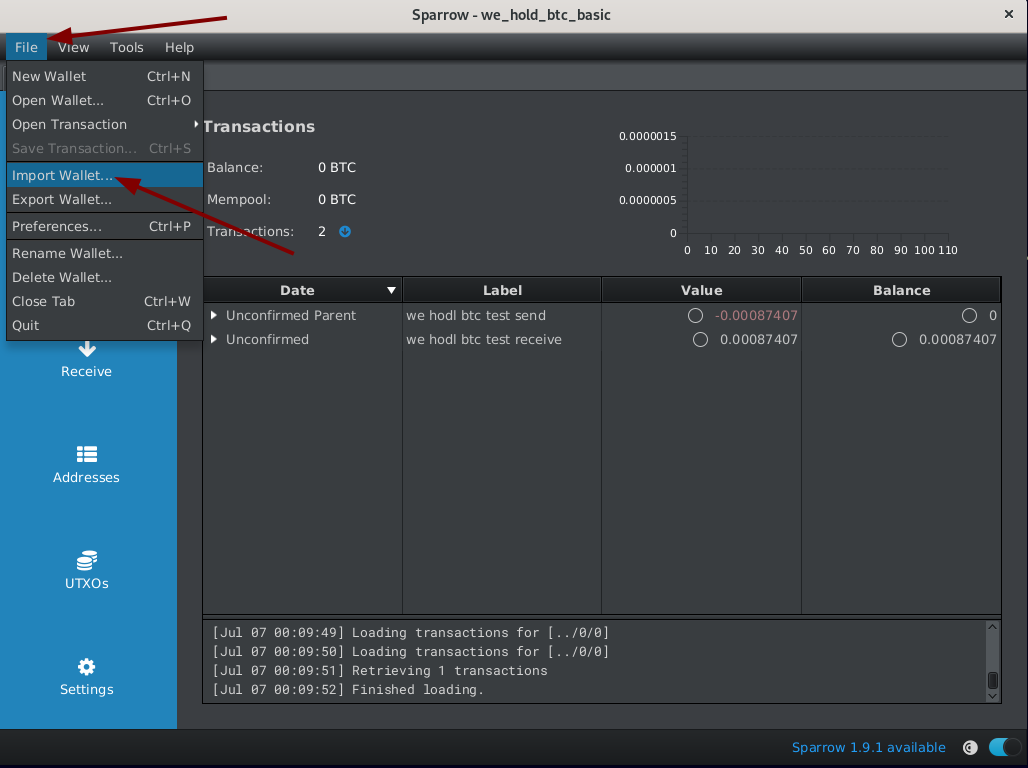
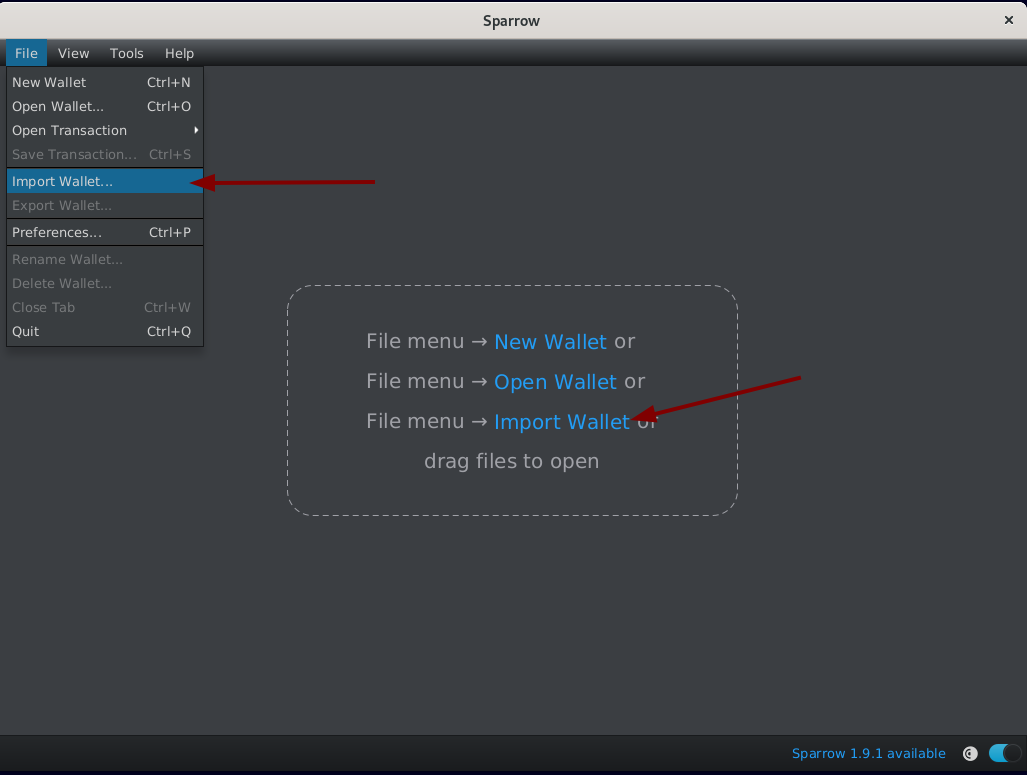
update sparrow wallet recovery faq

diff --git a/src/faqs/sparrow/sparrow_faq7.md b/src/faqs/sparrow/sparrow_faq7.md
@@ -3,12 +3,12 @@
 <h2 class="text-2xl pb-4 text-[#f7931a] font-semibold">Recovering Your Wallet</h2>
 
 Wallet recovery can be done using any software that supports **<a class="text-[#8cb4ff] underline-offset-auto font-semibold" href="https://en.bitcoin.it/wiki/BIP_0039" rel="noopener noreferrer" target="blank">BIP39<a>** 
-mnemonic seed. If you followed this guide, including Sparrow's quick start guide, then you've 
-got a BIP39 mnemonic seed. Recovering using Sparrow wallet is very similar to wallet creation.
+mnemonic seeds. If you followed this guide, including Sparrow's quick start guide, than you've 
+got a BIP39 mnemonic seed. 
 
 <br>
 
-**1\.** From the top menu click on **File** then click on **New Wallet**. Enter a name for your wallet.
+**1\.** From the top menu or middle of the page click on **File** then click on **Import Wallet**.
 
 <br>
 
@@ -18,54 +18,43 @@ got a BIP39 mnemonic seed. Recovering using Sparrow wallet is very similar to wa
 
 <br>
 
-**2\.** You'll be taken to the **Settings** tab to setup a new wallet. Leave everything as is and click on **New or Imported Software Wallet**.
+**2\.** Assuming you're recovering using your 12 word mnemonic seed, select the first dropdown and click on **Use 12 Words**. 
 
 <br>
 
-<a href="./../../../sparrow_basic_wallet.png" target="_blank">
-    <img id="sparrow basic wallet" src="./../../../sparrow_basic_wallet.png" alt="sparrow basic wallet" width="800"/> 
+<a href="./../../../sparrow_wallet_recovery_dropdown.png" target="_blank">
+    <img id="sparrow wallet recovery dropdown" src="./../../../sparrow_wallet_recovery_dropdown.png" alt="sparrow wallet recovery dropdown" width="800"/> 
 </a>
 
 <br>
 
-**3\.** A new window will appear, you'll select the first option **Mnemonic Words**, click on the down arrow and select **Use 12 words**.
+**3\.** Enter the 12 words you copied when originally setting up your wallet. They must be in the correct order. 
+        Enter a **passphrase** if you used one when originally creating this wallet. Click on **Discover Wallet**. Discovery may take a minute.
 
 <br>
 
-<a href="./../../../sparrow_basic_wallet.png" target="_blank">
-    <img id="sparrow basic wallet" src="./../../../sparrow_basic_wallet.png" alt="sparrow basic wallet" width="800"/> 
+<a href="./../../../sparrow_wallet_recovery_seed.png" target="_blank">
+    <img id="sparrow wallet recovery seed" src="./../../../sparrow_wallet_recovery_seed.png" alt="sparrow wallet recovery seed" width="800"/> 
 </a>
 
 <br>
 
-**4\.** Enter the 12 words you copied when originally setting up your wallet. They must be in the correct order. 
-        Enter a **passphrase** if you used one when originally creating this wallet. 
+**4\.** When asked, add a name to this wallet. You'll be asked to add a password, this is optional (It has no relation to your passphrase).
 
 <br>
 
-<a href="./../../../sparrow_basic_wallet.png" target="_blank">
-    <img id="sparrow basic wallet" src="./../../../sparrow_basic_wallet.png" alt="sparrow basic wallet" width="800"/> 
+<a href="./../../../sparrow_wallet_recovery_name.png" target="_blank">
+    <img id="sparrow wallet recovery name" src="./../../../sparrow_wallet_recovery_name.png" alt="sparrow wallet recovery name" width="800"/> 
 </a>
 
 <br>
 
-**5\.** If you followed this guide you would have stored the **passphrase** apart from your 12 words. 
-        If the seed is valid, **Valid Checksum** will turn green. Click on **Create Keystore** and then click on **Import Keystore**.
-
+**5\.** If the details you entered are correct, your balance (if you had one), along with all transactions will start appearing. 
+ 
 <br>
 
-<a href="./../../../sparrow_basic_wallet.png" target="_blank">
-    <img id="sparrow basic wallet" src="./../../../sparrow_basic_wallet.png" alt="sparrow basic wallet" width="800"/> 
-</a>
-
-<br>
-
-**6\.** Finally, click on **Apply** in the bottom right corner. If you correctly entered your seed words, your transactions will start appearing below the **Transactions** tab.
-
-<br>
-
-<a href="./../../../sparrow_basic_wallet.png" target="_blank">
-    <img id="sparrow basic wallet" src="./../../../sparrow_basic_wallet.png" alt="sparrow basic wallet" width="800"/> 
+<a href="./../../../sparrow_wallet_recovery_compelete.png" target="_blank">
+    <img id="sparrow wallet recovery complete" src="./../../../sparrow_wallet_recovery_complete.png" alt="sparrow wallet recovery complete" width="800"/> 
 </a>
 
 <br>

diff --git a/src/faqs/sparrow/sparrow_faq8.md b/src/faqs/sparrow/sparrow_faq8.md
@@ -1,6 +1,6 @@
-## Help, I recovered my wallet but there are no transactions
+## Troubleshooting
 
-<h2 class="text-2xl pb-4 text-[#f7931a] font-semibold">sjdhsajdh</h2>
+<h2 class="text-2xl pb-4 text-[#f7931a] font-semibold">I recovered my wallet but there are no transactions</h2>
 
 There are some common reasons as to why this could happen.
 
@@ -12,7 +12,7 @@ your seed words exactly as they appeared when first creating it. *The same words
 <br>
 
 **2\.** **You entered the wrong passphrase**. You entered the correct 12 words but the wrong passphrase, this too will generate a valid wallet, however
-it wont be the same you originally created. Make sure you enter the correct passphrase (if you originally used one).
+it wont be the same you originally created. Make sure you enter the correct passphrase (if you used one when creating the wallet).
 
 <br>
 
